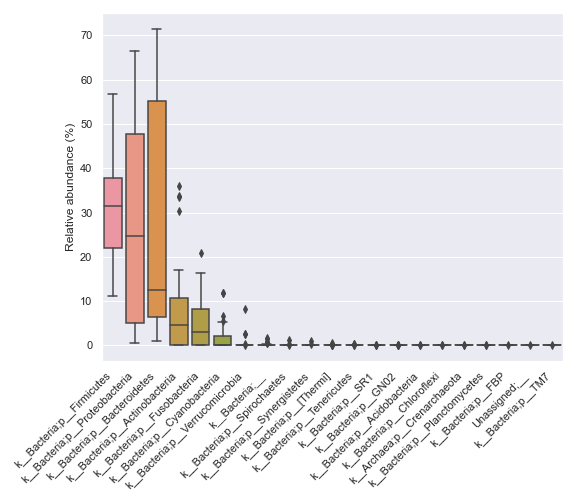
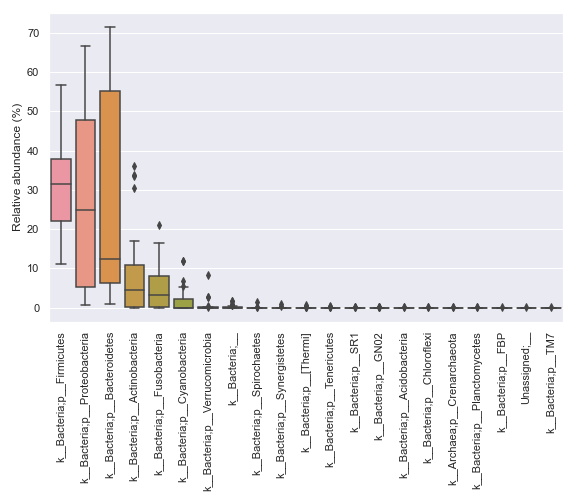
Update API

diff --git a/dokdo/api/taxa_abundance.py b/dokdo/api/taxa_abundance.py
@@ -551,13 +551,11 @@ def taxa_abundance_bar_plot(
 
 def taxa_abundance_box_plot(
     visualization, metadata=None, hue=None, hue_order=None,
-    level=1, by=None, ax=None,
-    figsize=None, count=0, exclude_samples=None,
+    level=1, by=None, count=0, exclude_samples=None,
     include_samples=None, exclude_taxa=None, sort_by_names=False,
-    sample_names=None, csv_file=None, size=5, pseudocount=False,
-    taxa_names=None, brief_xlabels=False, show_means=False,
-    meanprops=None, show_others=True, sort_by_mean=True,
-    jitter=1, alpha=None
+    sample_names=None, csv_file=None, pseudocount=False,
+    taxa_names=None, pretty_taxa=False, show_means=False,
+    meanprops=None, show_others=True, sort_by_mean=True, ax=None, figsize=None
 ):
     """
     Create a box plot showing the distribution of relative abundance for
@@ -595,12 +593,8 @@ def taxa_abundance_box_plot(
         will sort the samples by their name, in addition to other column
         name(s) that may have been provided. If multiple items are provided,
         sorting will occur by the order of the items.
-    ax : matplotlib.axes.Axes, optional
-        Axes object to draw the plot onto, otherwise uses the current Axes.
-    figsize : tuple, optional
-        Width, height in inches. Format: (float, float).
     count : int, default: 0
-        The number of taxa to display. When 0, display all.
+        Number of top taxa to display. When 0, display all.
     exclude_samples : dict, optional
         Filtering logic used for sample exclusion.
         Format: {'col': ['item', ...], ...}.
@@ -615,13 +609,11 @@ def taxa_abundance_box_plot(
         List of sample IDs to be included.
     csv_file : str, optional
         Path of the .csv file to output the dataframe to.
-    size : float, default: 5.0
-        Radius of the markers, in points.
     pseudocount : bool, default: False
         Add pseudocount to remove zeros.
     taxa_names : list, optional
         List of taxa names to be displayed.
-    brief_xlabels : bool, default: False
+    pretty_taxa : bool, default: False
         If true, only display the smallest taxa rank in the x-axis labels.
     show_means : bool, default: False
         Add means to the boxes.
@@ -631,10 +623,10 @@ def taxa_abundance_box_plot(
         Include the 'Others' category.
     sort_by_mean : bool, default: True
         Sort taxa by their mean relative abundance after sample filtration.
-    jitter : float, default: 1
-        Amount of jitter (only along the categorical axis) to apply.
-    alpha : float, optional
-        Proportional opacity of the points.
+    ax : matplotlib.axes.Axes, optional
+        Axes object to draw the plot onto, otherwise uses the current Axes.
+    figsize : tuple, optional
+        Width, height in inches. Format: (float, float).
 
     Returns
     -------
@@ -648,52 +640,87 @@ def taxa_abundance_box_plot(
 
     Examples
     --------
-    Below is a simple example showing taxonomic abundance at the phylum
-    level (i.e. ``level=2``).
+    Below is a simple example:
 
-    >>> qzv_file = '/Users/sbslee/Desktop/dokdo/data/moving-pictures-tutorial/taxa-bar-plots.qzv'
-    >>> dokdo.taxa_abundance_box_plot(qzv_file, level=2, figsize=(8, 7))
-    >>> plt.tight_layout()
+    .. code:: python3
+
+        import dokdo
+        import matplotlib.pyplot as plt
+        %matplotlib inline
+        import seaborn as sns
+        sns.set()
+
+        qzv_file = '/Users/sbslee/Desktop/dokdo/data/moving-pictures-tutorial/taxa-bar-plots.qzv'
+        dokdo.taxa_abundance_box_plot(
+            qzv_file,
+            level=2,
+            figsize=(8, 7)
+        )
+        plt.tight_layout()
 
     .. image:: images/taxa_abundance_box_plot-1.png
 
-    We can control how many taxa to display with ``count``. Also, we can
-    make the x-axis tick labels pretty with ``brief_xlabels``. We can
-    manually set the x-axis tick labels with ``xticklabels``. Lastly, we
-    can select specific taxa to display with ``taxa_names``.
+    We can prettify the taxa names:
 
-    >>> fig, [[ax1, ax2], [ax3, ax4]] = plt.subplots(2, 2, figsize=(10, 10))
-    >>> kwargs = {'level' : 2}
-    >>> artist_kwargs1 = dict(title='count=4')
-    >>> artist_kwargs2 = dict(title='brief_xlabels=True')
-    >>> artist_kwargs3 = dict(xticklabels=['A', 'B', 'C', 'D'], title="xticklabels=['A', 'B', 'C', 'D']")
-    >>> artist_kwargs4 = dict(title="taxa_names=[...]")
-    >>> dokdo.taxa_abundance_box_plot(qzv_file, ax=ax1, count=4, artist_kwargs=artist_kwargs1, **kwargs)
-    >>> dokdo.taxa_abundance_box_plot(qzv_file, ax=ax2, count=4, brief_xlabels=True, artist_kwargs=artist_kwargs2, **kwargs)
-    >>> dokdo.taxa_abundance_box_plot(qzv_file, ax=ax3, count=4, artist_kwargs=artist_kwargs3, **kwargs)
-    >>> dokdo.taxa_abundance_box_plot(qzv_file, ax=ax4, taxa_names=['k__Bacteria;p__Firmicutes', 'k__Bacteria;p__Proteobacteria'], artist_kwargs=artist_kwargs4, **kwargs)
-    >>> plt.tight_layout()
+    .. code:: python3
+
+        dokdo.taxa_abundance_box_plot(
+            qzv_file,
+            level=2,
+            pretty_taxa=True,
+            figsize=(8, 7)
+        )
+        plt.tight_layout()
 
     .. image:: images/taxa_abundance_box_plot-2.png
 
-    We can group the boxes by a metadata column with ``hue``. For this
-    plot, we will draw the y-axis in log scale with ``ylog``. To do
-    this, we actually need to adjust the y-axis limits with ``ymin``
-    and ``ymax``, and also add a pseudocount of 1 to remove 0s with
-    ``pseudocount`` (because 0s cannot be shown in log scale).
+    We can only display a selected number of top taxa:
 
-    >>> artist_kwargs = dict(ylog=True, ymin=0.05, ymax=200, show_legend=True)
-    >>> dokdo.taxa_abundance_box_plot(qzv_file,
-    ...                               level=2,
-    ...                               figsize=(10, 7),
-    ...                               hue='body-site',
-    ...                               size=3,
-    ...                               count=4,
-    ...                               pseudocount=True,
-    ...                               artist_kwargs=artist_kwargs)
-    >>> plt.tight_layout()
+    .. code:: python3
+
+        dokdo.taxa_abundance_box_plot(
+            qzv_file,
+            level=2,
+            count=4,
+            pretty_taxa=True,
+            figsize=(8, 7)
+        )
+        plt.tight_layout()
 
     .. image:: images/taxa_abundance_box_plot-3.png
+
+    We can also specify which taxa to plot:
+
+    .. code:: python3
+
+        dokdo.taxa_abundance_box_plot(
+            qzv_file,
+            level=2,
+            pretty_taxa=True,
+            taxa_names=['k__Bacteria;p__Firmicutes', 'k__Bacteria;p__Proteobacteria'],
+            figsize=(8, 7)
+        )
+        plt.tight_layout()
+
+    .. image:: images/taxa_abundance_box_plot-4.png
+
+    In some cases, it may be desirable to plot abundance in log scale. We can achieve this with:
+
+    .. code:: python3
+
+        ax = dokdo.taxa_abundance_box_plot(
+            qzv_file,
+            level=2,
+            hue='body-site',
+            count=4,
+            pseudocount=True,
+            figsize=(8, 7)
+        )
+        ax.set_ylim([0.05, 200])
+        ax.set_yscale('log')
+        plt.tight_layout()
+
+    .. image:: images/taxa_abundance_box_plot-5.png
     """
     with tempfile.TemporaryDirectory() as t:
         common.export(visualization, t)
@@ -790,10 +817,9 @@ def taxa_abundance_box_plot(
         df3 = pd.concat([df, mf], axis=1, join='inner')
         df3.to_csv(csv_file)
 
-    if brief_xlabels:
-        xticklabels = [common.pname(x.get_text()) for x in ax.get_xticklabels()]
-    else:
-        xticklabels = None
+    if pretty_taxa:
+        l = [common.pname(x.get_text()) for x in ax.get_xticklabels()]
+        ax.set_xticklabels(l)
 
     ax.set_xlabel('')
     ax.set_ylabel('Relative abundance (%)')

diff --git a/CHANGELOG.rst b/CHANGELOG.rst
@@ -16,6 +16,7 @@ Changelog
   - :meth:`beta_parallel_plot`
   - :meth:`distance_matrix_plot`
   - :meth:`regplot`
+  - :meth:`taxa_abundance_box_plot`
 
 * Deprecate the :meth:`barplot` method.
 * :issue:`22`: Rename the :meth:`heatmap` method to :meth:`clustermap`.
